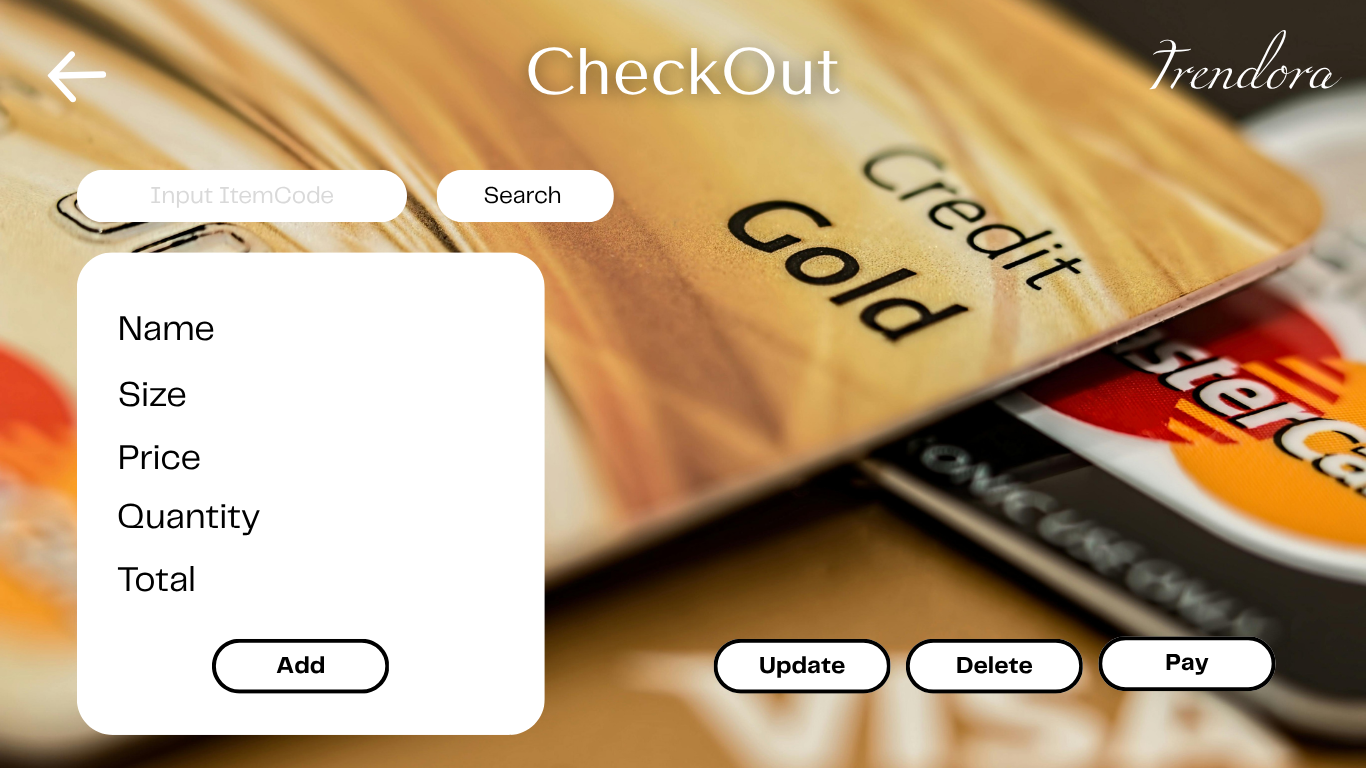
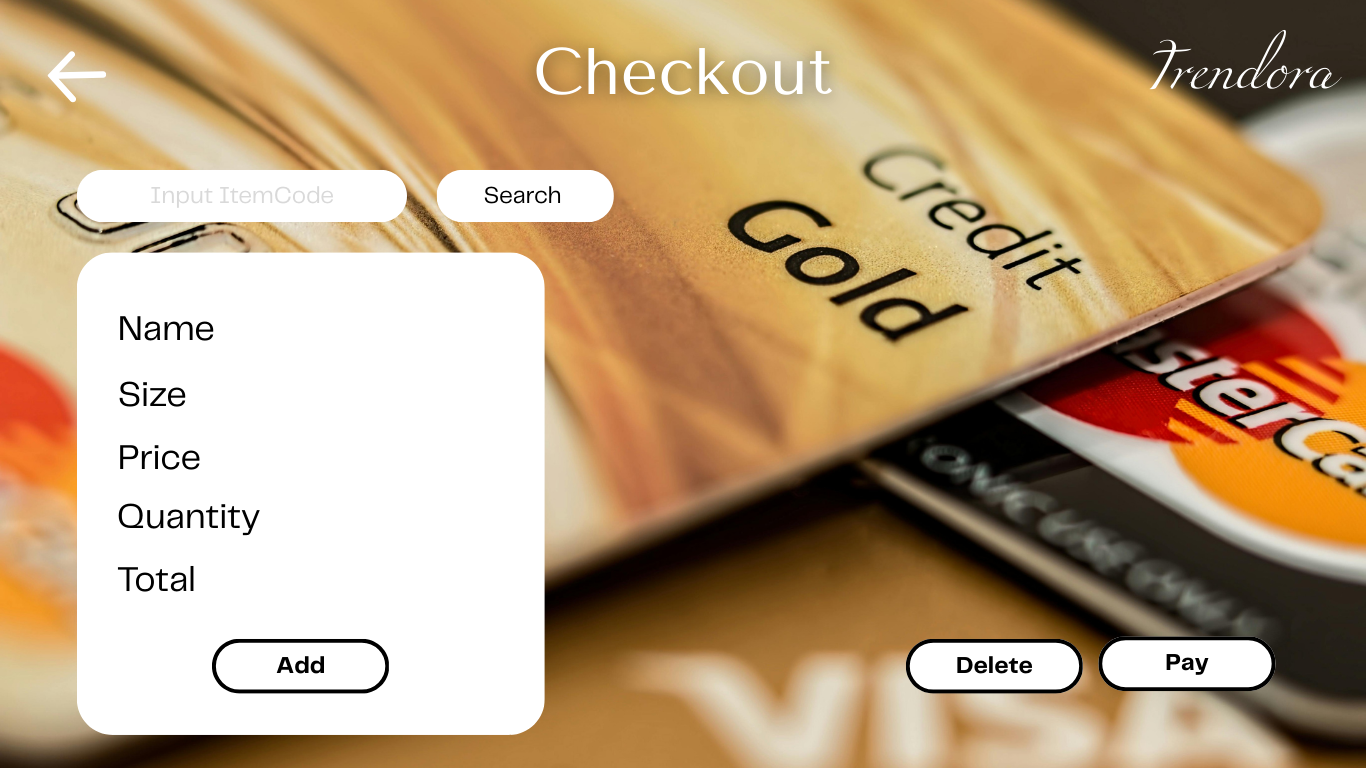
create delete cartItem ui for checkout page and remove checkout page update cart item action

Changed region(s): [[0.369, 0.0625, 0.6149, 0.125], [0.5227, 0.8125, 0.6764, 0.9062]]

diff --git a/src/main/java/controller/DeleteCartItemPageController.java b/src/main/java/controller/DeleteCartItemPageController.java
@@ -1,0 +1,44 @@
+package controller;
+
+import com.jfoenix.controls.JFXButton;
+import javafx.event.ActionEvent;
+import javafx.fxml.FXML;
+import javafx.fxml.FXMLLoader;
+import javafx.scene.Node;
+import javafx.scene.Scene;
+import javafx.scene.control.TextField;
+import javafx.stage.Stage;
+
+import java.io.IOException;
+
+public class DeleteCartItemPageController {
+
+    Stage stage = new Stage();
+
+    @FXML
+    private JFXButton btnBack;
+
+    @FXML
+    private JFXButton btnDelete;
+
+    @FXML
+    private TextField txtCartID;
+
+    @FXML
+    void btnBackOnaction(ActionEvent event) throws IOException {
+
+        stage.setScene(new Scene(FXMLLoader.load(getClass().getResource("/view/CheckOutPage.fxml"))));
+        stage.setResizable(false);
+        stage.setTitle("Payment");
+        stage.show();
+
+        Stage stage = (Stage) ((Node) event.getSource()).getScene().getWindow();
+        stage.close();
+    }
+
+    @FXML
+    void btnDeleteOnAction(ActionEvent event) {
+
+    }
+
+}

diff --git a/src/main/java/controller/CheckoutPageController.java b/src/main/java/controller/CheckoutPageController.java
@@ -34,9 +34,6 @@ public class CheckoutPageController {
     private JFXButton btnSearch;
 
     @FXML
-    private JFXButton btnUpdate;
-
-    @FXML
     private TableColumn<?, ?> colCode;
 
     @FXML
@@ -87,6 +84,13 @@ public class CheckoutPageController {
     @FXML
     void btnDeleteOnaction(ActionEvent event) throws IOException {
 
+        stage.setScene(new Scene(FXMLLoader.load(getClass().getResource("/view/DeleteCartItemPage.fxml"))));
+        stage.setResizable(false);
+        stage.setTitle("Delete");
+        stage.show();
+
+        Stage stage = (Stage) ((Node) event.getSource()).getScene().getWindow();
+        stage.close();
     }
 
     @FXML
@@ -103,11 +107,6 @@ public class CheckoutPageController {
 
     @FXML
     void btnSearchOnaction(ActionEvent event) {
-
-    }
-
-    @FXML
-    void btnUpdateOnaction(ActionEvent event) throws IOException {
 
     }
 
